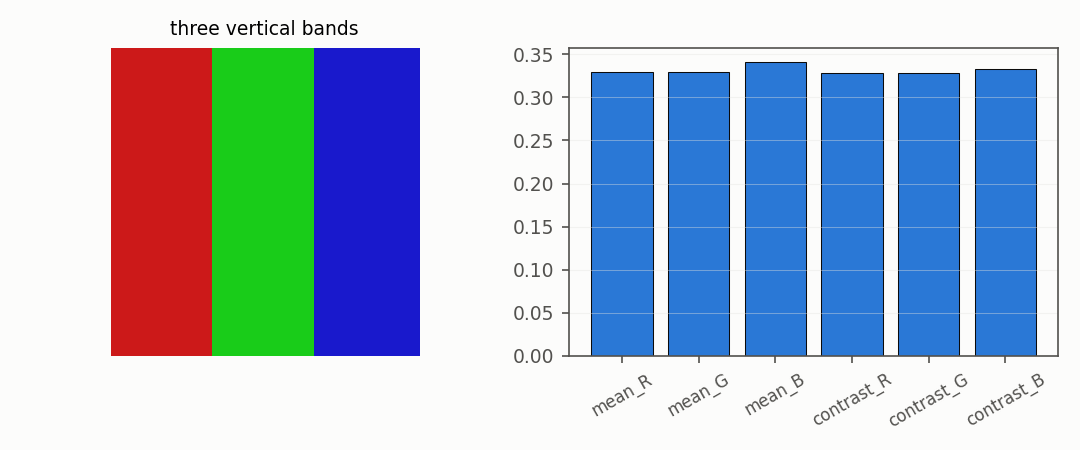
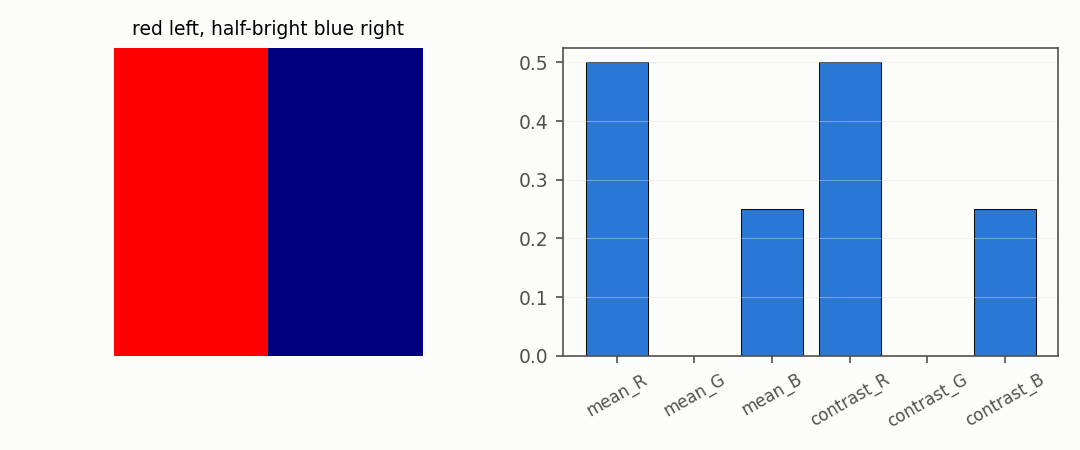
task21e B: fig06 matches features.md scene (R 0.5, B 0.25); tracking.md states the 3-track limit

diff --git a/docs/assets/vision/make_figures.py b/docs/assets/vision/make_figures.py
@@ -258,23 +258,17 @@ def fig_05_flow():
     _save(fig, "flow", "lucas_kanade")
 
 def fig_06_colour():
-    f = np.zeros((64, 64, 3), dtype=np.float32)
-    f[:, 0:21, 0] = 0.8
-    f[:, 0:21, 1] = 0.1
-    f[:, 0:21, 2] = 0.1
-    f[:, 21:42, 0] = 0.1
-    f[:, 21:42, 1] = 0.8
-    f[:, 21:42, 2] = 0.1
-    f[:, 42:, 0] = 0.1
-    f[:, 42:, 1] = 0.1
-    f[:, 42:, 2] = 0.8
+    """The six colour features on the scene of features.md Section 3."""
+    f = np.zeros((20, 20, 3), dtype=np.float32)
+    f[:, :10, 0] = 1.0
+    f[:, 10:, 2] = 0.5
     ff = FrameFeatures(gray=False)
     out = ff.transform_one(f)
     keys = ["mean_R", "mean_G", "mean_B", "contrast_R", "contrast_G", "contrast_B"]
     vals = [out[k] for k in keys]
     fig, axes = plt.subplots(1, 2, figsize=(7.2, 3.0))
     axes[0].imshow(np.clip(f, 0, 1))
-    axes[0].set_title("three vertical bands", fontsize=9)
+    axes[0].set_title("red left, half-bright blue right", fontsize=9)
     axes[0].axis("off")
     axes[1].bar(range(len(keys)), vals, color=BLUE, edgecolor=INK, linewidth=0.5)
     axes[1].set_xticks(range(len(keys)))
@@ -283,6 +277,8 @@ def fig_06_colour():
     _save(fig, "colour", "colour_features")
     FIG["fig06_keys"] = keys
     FIG["fig06_vals"] = [float(v) for v in vals]
+
+
 
 def fig_07_projection():
     rng = np.random.default_rng(0)

diff --git a/docs/vision/tracking.md b/docs/vision/tracking.md
@@ -31,3 +31,5 @@ within the frame rate of the source.
 - [`TrackToSignal`](../api/general.md#tracktosignal)
 - [`FeatureToSignal`](../api/general.md#featuretosignal)
 - [`FrameJointFusion`](../api/general.md#framejointfusion)
+
+On the 20-frame synthetic stream of this section the tracker reports three tracks instead of two: the second square is occluded for one frame and a new id is created. The detection is correct (two squares), the id is not stable across the occlusion. This is a limit of the tracker on a short stream, and a longer one with the same objects gives the same id.
